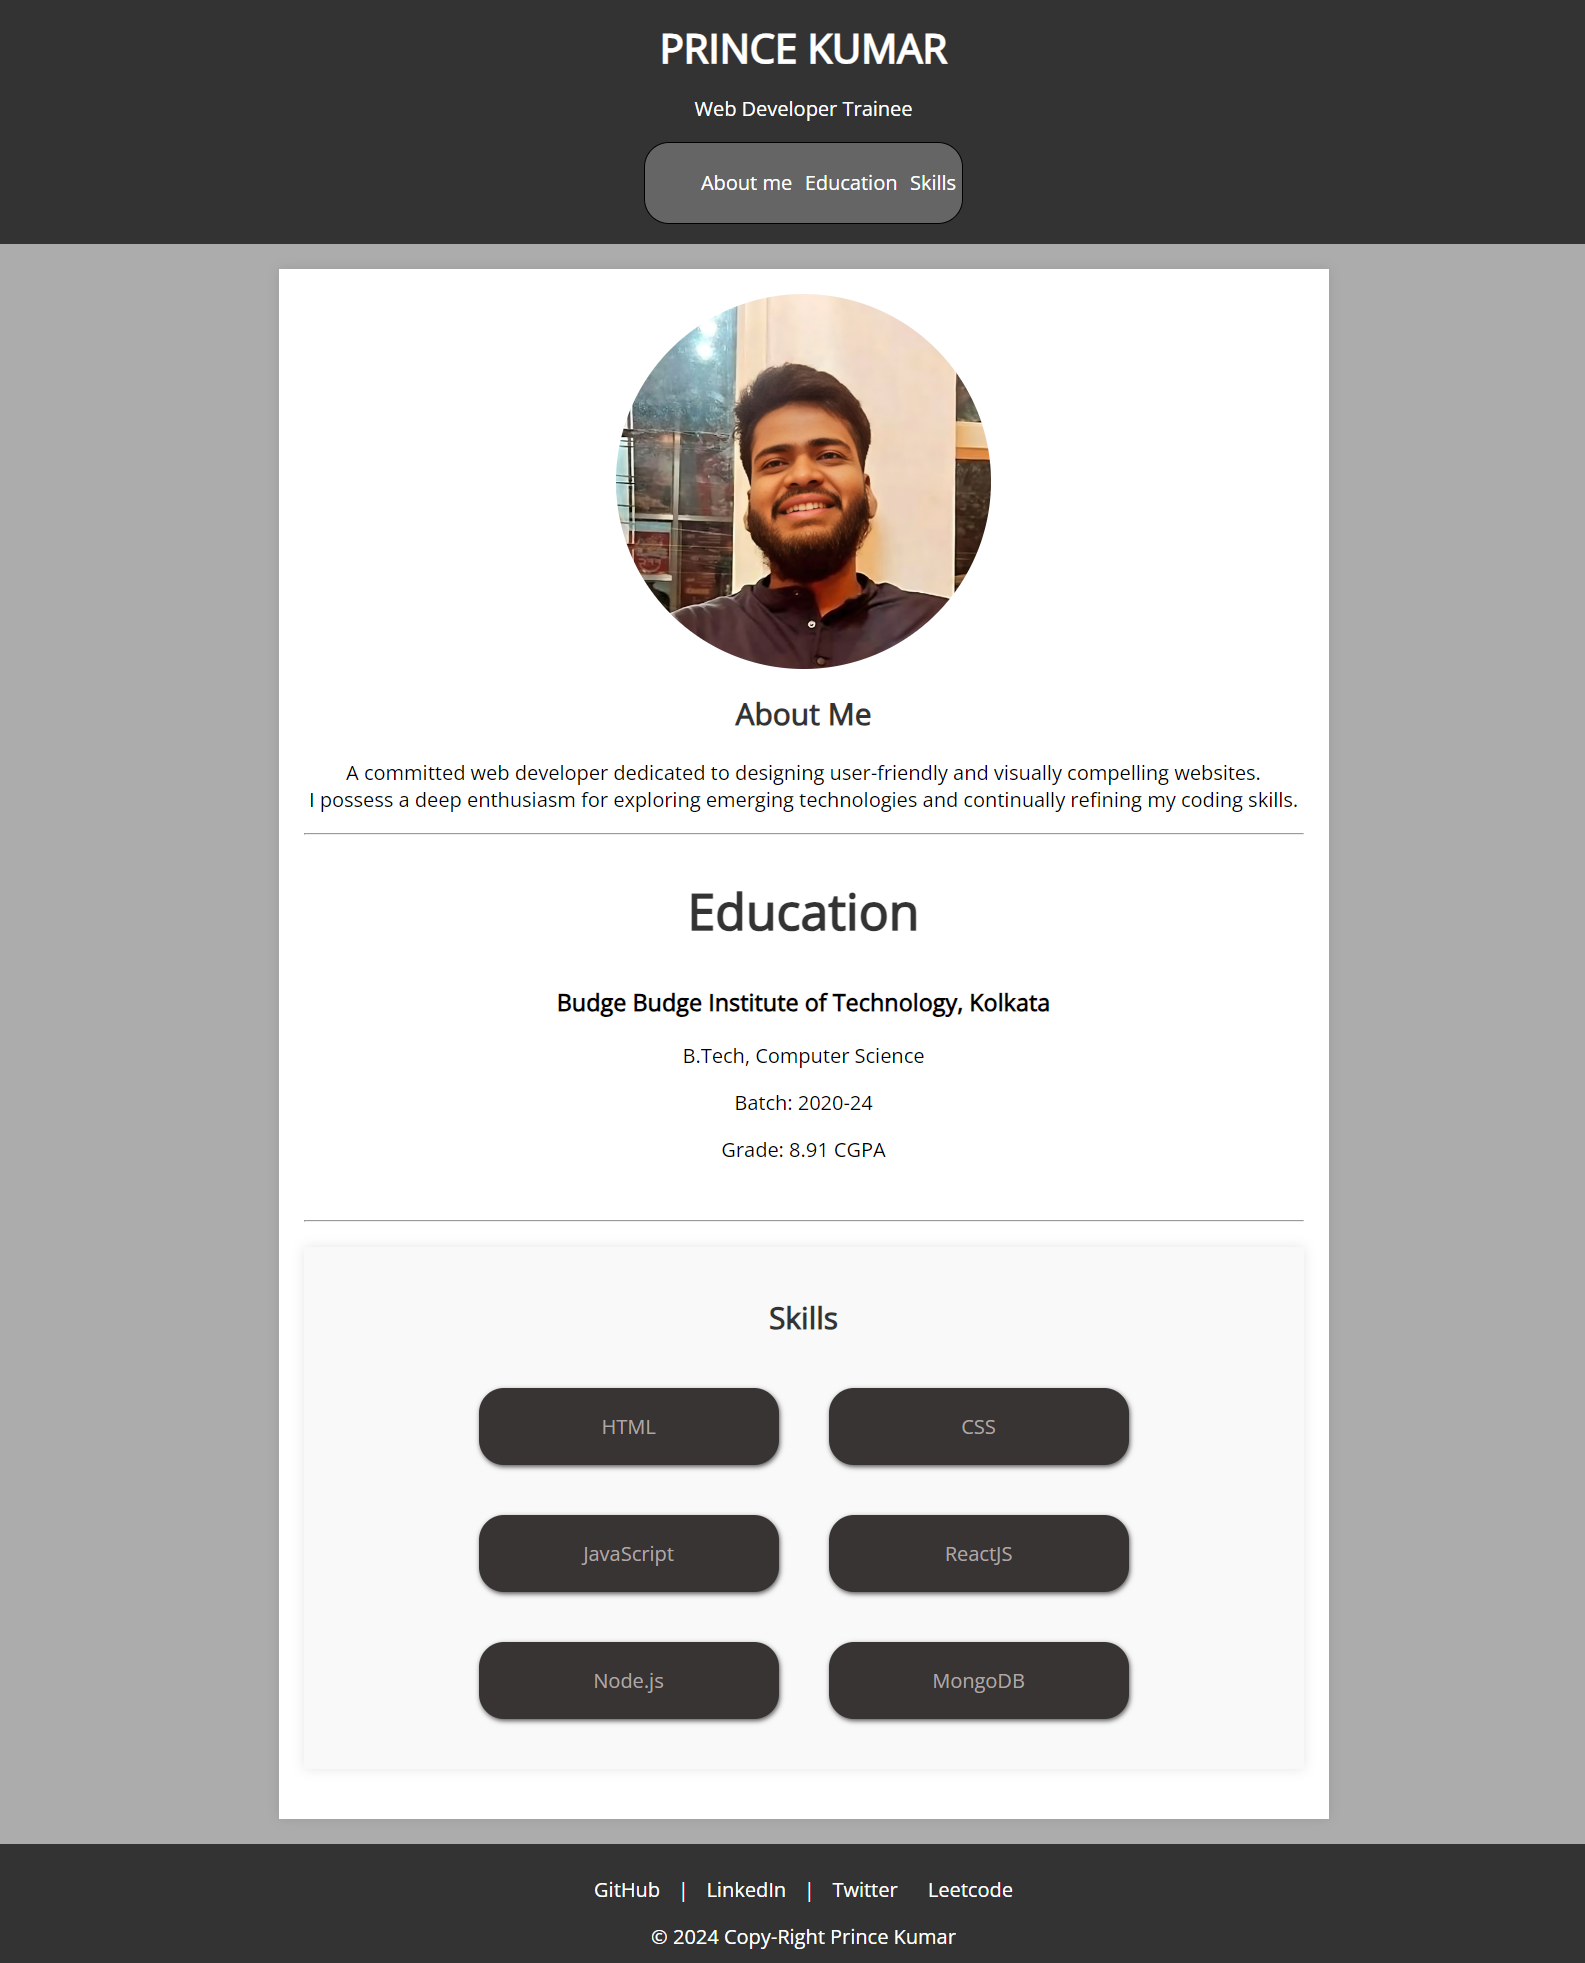
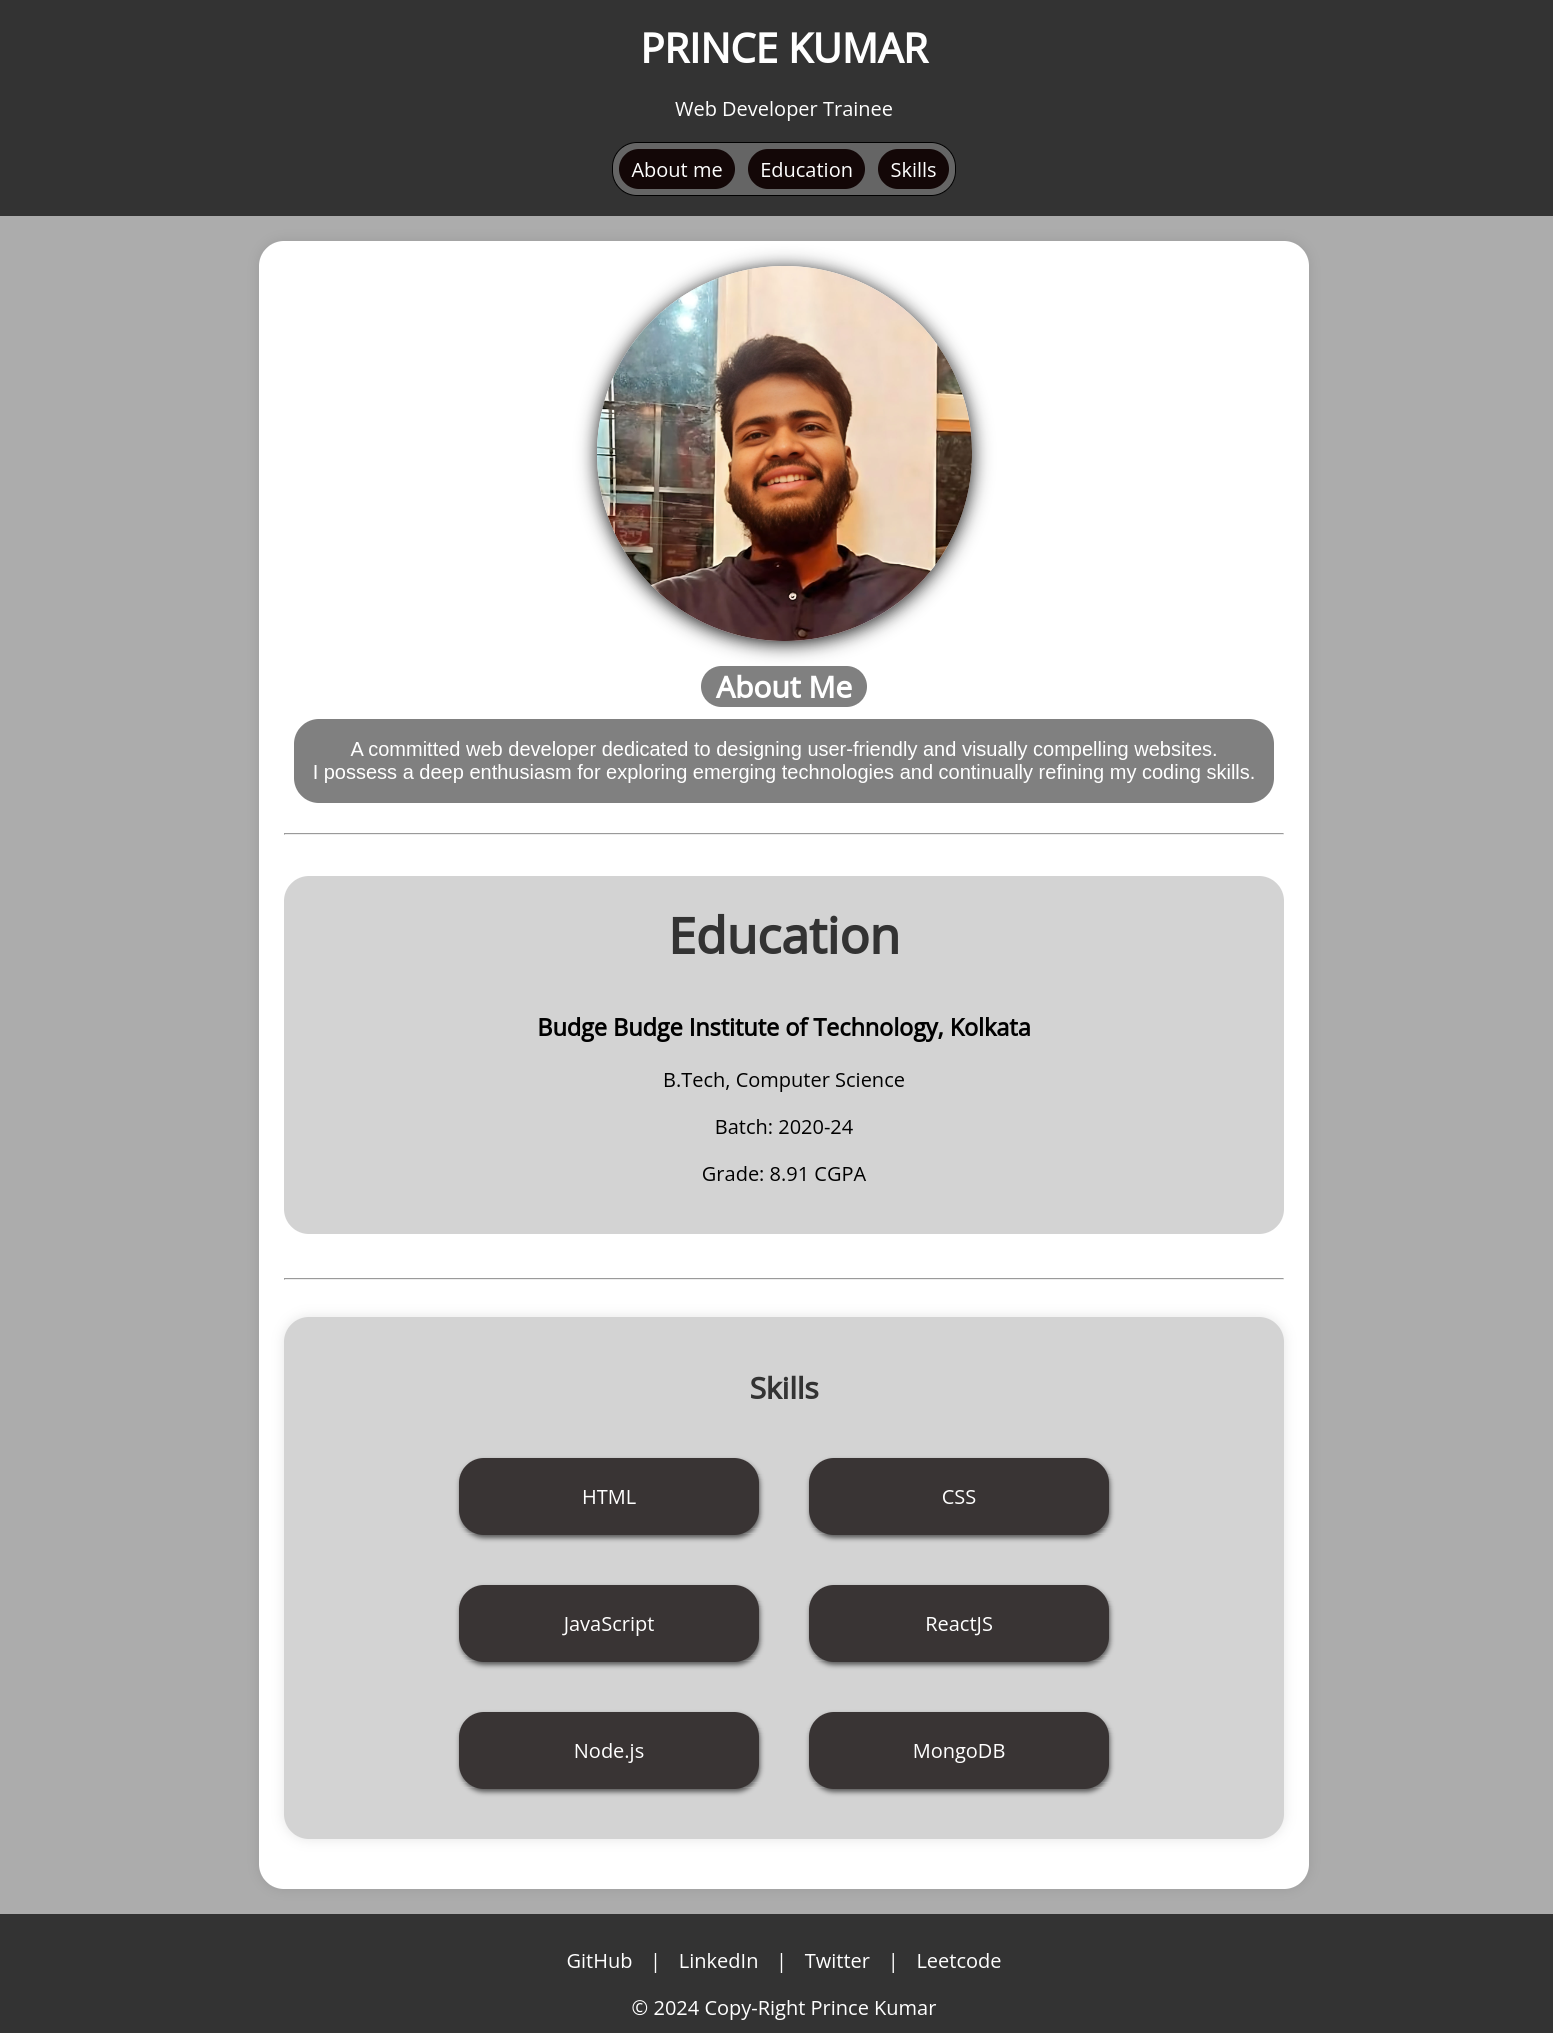
Replace Image and added more styling

diff --git a/style.css b/style.css
@@ -1,8 +1,15 @@
+* {
+    scroll-behavior: smooth;
+    cursor: pointer;
+}
+
 body {
     font-family: 'Open Sans', sans-serif;
     margin: 0;
     padding: 0;
     background-color: #acacac;
+    transition: 1s ease-in-out;
+
 }
 
 header {
@@ -16,6 +23,7 @@ header h1 {
     margin: 0;
 }
 
+
 nav {
     background-color: rgb(101, 101, 101);
     border: 1px solid rgb(0, 0, 0);
@@ -26,28 +34,26 @@ nav {
     margin: auto;
     justify-content: space-around;
     width: fit-content;
+    padding: 0 auto;
 }
 
-#edu{
-    font-size: 40px;
-}
-
-nav ul {
-    display: flex;
-    text-align: center;
-    align-items: center;
-    justify-content: center;
-}
-
-nav ul a {
+nav a {
     color: white;
-    padding: 5px;
     text-decoration: none;
+    background-color: rgb(19, 7, 7);
+    margin: 5px;
+    border-radius: 20px;
+    padding: 5px 10px 5px 10px;
+    transition: 1s ease-in-out;
+}
+
+nav a:hover {
+    background-color: #393434;
+    transition: 0.2s ease-in-out;
 }
 
 
-
-img {
+.about img {
     display: flex;
     margin: auto;
     max-width: 100%;
@@ -55,6 +61,28 @@ img {
     width: 300px;
     border-radius: 100%;
     height: auto;
+    box-shadow: 0px 2px 15px rgb(15, 15, 15);
+    transition: 1s ease-in-out;
+
+}
+
+.about h2 {
+    background-color: grey;
+    display: inline-block;
+    padding: 0 12px 0 12px;
+    border-radius: 20px;
+    color: white;
+}
+
+.about p {
+    background-color: grey;
+    display: inline-block;
+    padding: 15px 15px 15px 15px;
+    border-radius: 20px;
+    color: white;
+    margin-top: -10px;
+    font-family: 'Trebuchet MS', sans-serif;
+
 }
 
 section {
@@ -66,9 +94,19 @@ section {
     margin-top: 20px;
     text-align: center;
     box-shadow: 0 0 10px rgba(0, 0, 0, 0.1);
+    border-radius: 20px;
 }
 
 
+.Education {
+    border-radius: 20px;
+    margin-bottom: 35px;
+}
+
+#edu {
+    font-size: 40px;
+    padding-top: 20px;
+}
 
 section#Skills {
     background-color: #f9f9f9;
@@ -86,14 +124,21 @@ h2.skill-title {
     justify-content: center;
 }
 
-.skill-box { 
+#Skills,
+.Education {
+    background-color: rgb(211, 211, 211) !important;
+    margin-top: 30px;
+}
+
+.skill-box {
     width: 200px;
     margin: 20px;
     padding: 20px;
-    background-color: #393434; 
-    text-align: center; 
+    background-color: #393434;
+    text-align: center;
     border-radius: 20px;
-    color: rgb(175, 166, 166); 
+    color: rgb(255, 255, 255);
+    transition: 0.3s;
     box-shadow: 1px 2px 4px rgb(89, 89, 89);
 }
 
@@ -101,13 +146,9 @@ h2.skill-title {
     transform: scale(1.05);
 }
 
-
-@media only screen and (max-width: 600px) {
-    .skill-box{
-        width:25%;
-    }
+.skill-box:hover:hover {
+    transition: 0.3s ease-in-out;
 }
-
 
 
 h2 {
@@ -126,7 +167,7 @@ footer {
 .social a {
     color: #fff;
     text-decoration: none;
-    margin: 0 10px; 
+    margin: 0 10px;
 }
 
 .social-links a:hover {
@@ -137,3 +178,9 @@ footer {
     margin: 10px 0 0;
 }
 
+/* --------------------------MOBILE VIEW----------------------- */
+@media only screen and (max-width: 600px) {
+    .skill-box {
+        width: 25%;
+    }
+}

diff --git a/index.html b/index.html
@@ -9,6 +9,8 @@
     <link rel="preconnect" href="https://fonts.googleapis.com">
     <link rel="preconnect" href="https://fonts.gstatic.com" crossorigin>
     <link href="https://fonts.googleapis.com/css2?family=Open+Sans&display=swap" rel="stylesheet">
+    <link rel="preconnect" href="https://fonts.googleapis.com">
+ 
 </head>
 
 <body>
@@ -16,32 +18,38 @@
     <header>
         <h1>PRINCE KUMAR</h1>
         <p>Web Developer Trainee</p>
-        <nav>
-            <ul>
-                <a href="#About">About me</a>
-                <a href="#edu">Education</a>
-                <a href="#Skills">Skills</a>
-            </ul>
+        <nav> 
+           <a href="#About">About me</a>
+           <a href="#edu">Education</a>
+           <a href="#Skills">Skills</a> 
         </nav>
     </header>
 
 
     <section>
-        <img src="./Image/DP.jpg" alt="Prince">
-        <h2>About Me</h2>
-        <p>
-            A committed web developer dedicated to designing user-friendly and visually compelling websites. <br>I
-            possess a deep enthusiasm for exploring emerging technologies and continually refining my coding skills.
-        </p>
-        <hr>
-        <h2 id="edu">Education</h2>
-        <div>
-            <h3>Budge Budge Institute of Technology, Kolkata</h3>
-            <p>B.Tech, Computer Science</p>
-            <p>Batch: 2020-24</p>
-            <p>Grade: 8.91 CGPA</p><br>
+        <div class="about"> 
+            <img src="./Image/DP.jpg" alt="Prince">
+            <h2>About Me</h2>
+            <p>
+                A committed web developer dedicated to designing user-friendly and visually compelling websites. <br>I
+                possess a deep enthusiasm for exploring emerging technologies and continually refining my coding skills.
+            </p>
         </div>
         <hr>
+
+
+        <div class="Education">
+            <h2 id="edu">Education</h2>
+            <div>
+                <h3>Budge Budge Institute of Technology, Kolkata</h3>
+                <p>B.Tech, Computer Science</p>
+                <p>Batch: 2020-24</p>
+                <p>Grade: 8.91 CGPA</p><br>
+            </div>
+        </div>
+        <hr>
+
+
         <section class="section" id="Skills">
             <h2 class="skill-title">Skills</h2>
             <div class="skill-container">
@@ -63,6 +71,7 @@
                 <a href="https://www.linkedin.com/in/princesah/" target="_blank" rel="noopener noreferrer">LinkedIn</a>
                 |
                 <a href="https://twitter.com/Princesah009" target="_blank" rel="noopener noreferrer">Twitter</a>
+                |
                 <a href=" https://leetcode.com/Princesah999/" target="_blank" rel="noopener noreferrer">Leetcode</a>
 
             </p>
